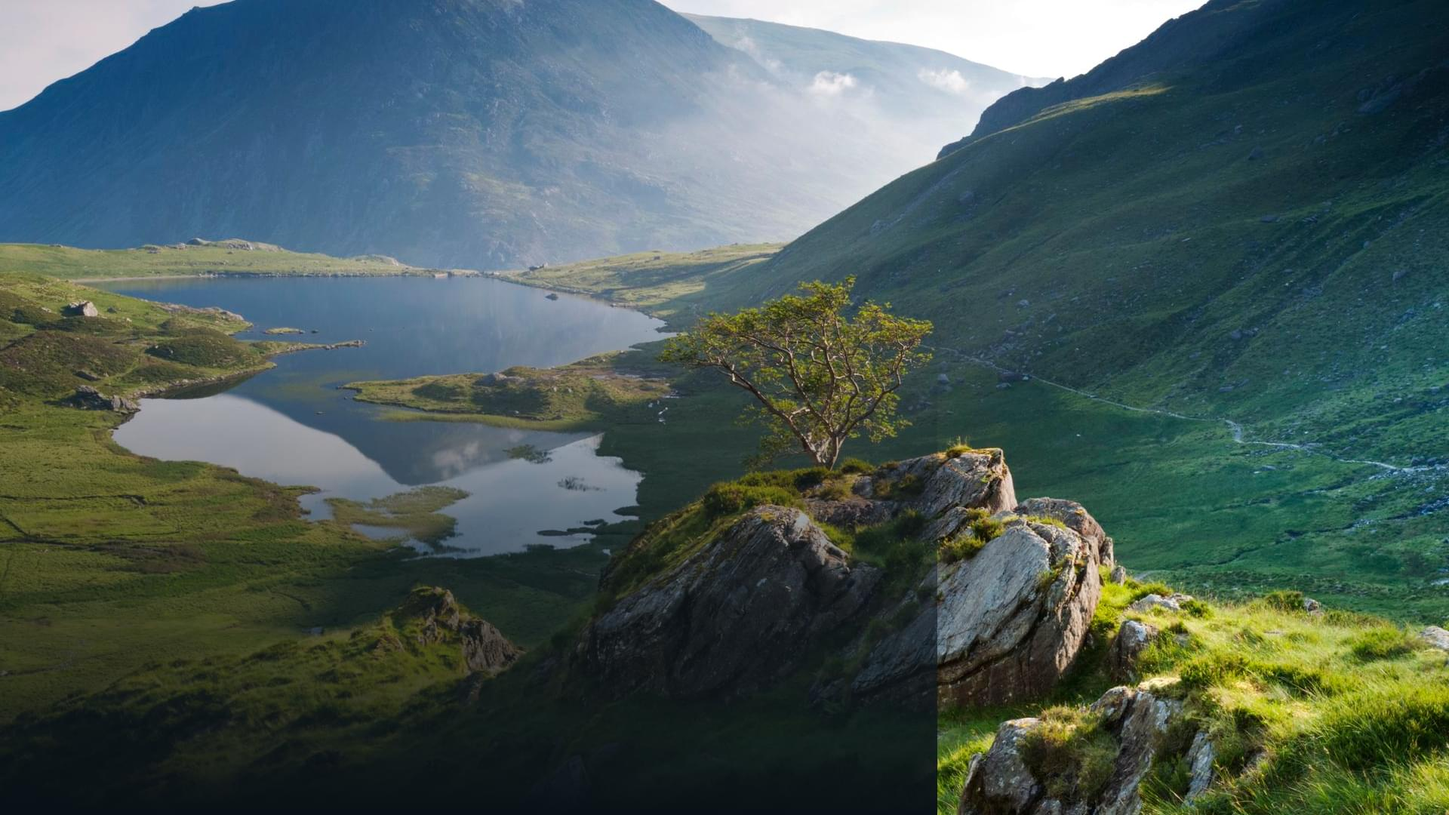
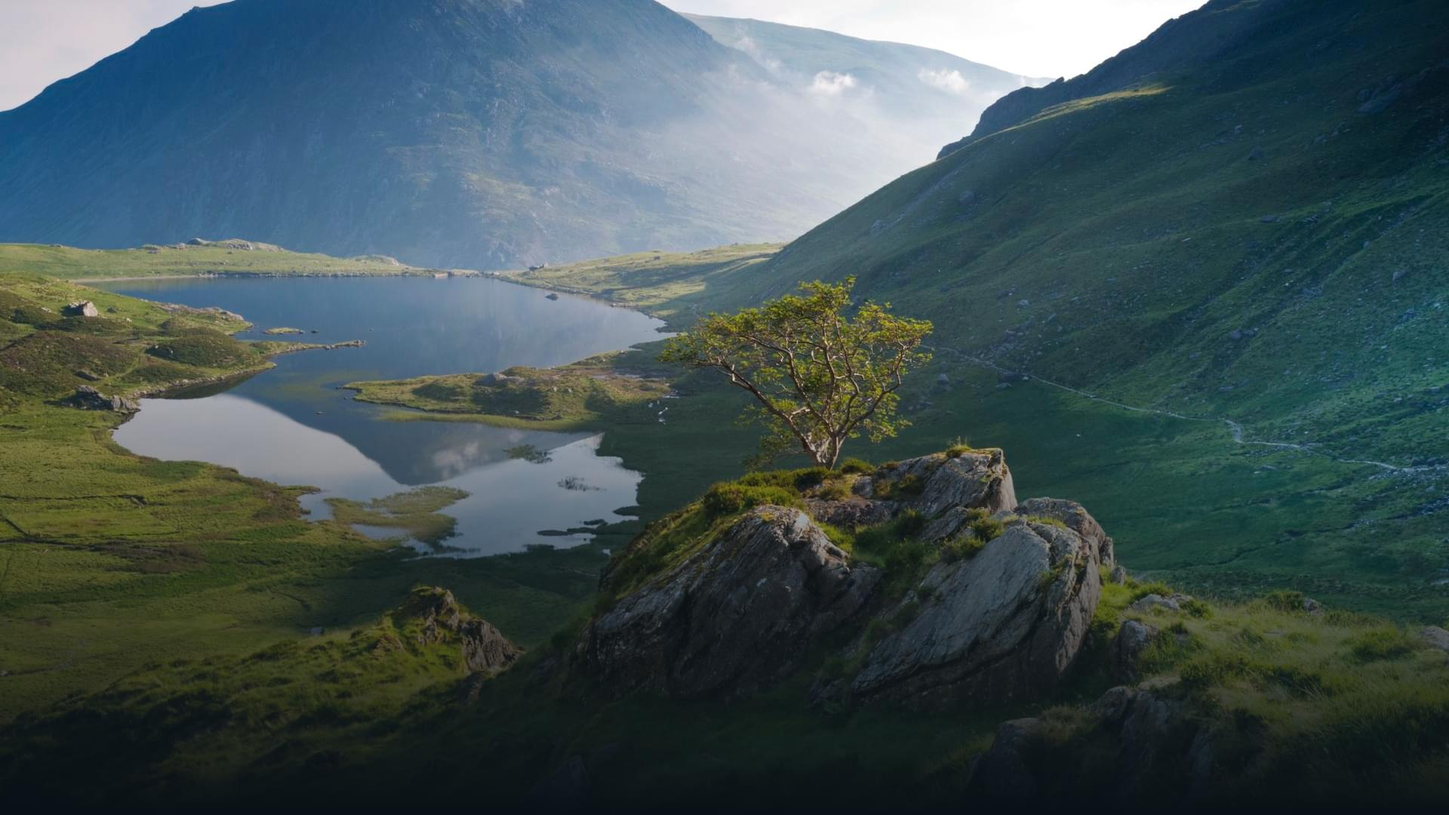
Адаптив второй секции + мелкие правки
Доработал адаптив для второй секции + заменил изображение на бэке / добавил text-shadow для всех заголовков и кнопок  /

Changed region(s): [[0.625, 0.5194, 1.0, 1.0]]

diff --git a/app/css/app.min.css b/app/css/app.min.css
@@ -1,1 +1,1 @@
-@charset "UTF-8";*,::after,::before{padding:0;margin:0;border:0;outline:0;-webkit-user-select:none;-moz-user-select:none;-ms-user-select:none;user-select:none;-webkit-box-sizing:border-box;box-sizing:border-box}body,html{width:100%;height:100%;position:relative}body.lock{overflow:hidden}@media screen and (min-width:770px){body.lock{overflow:auto}}a{text-decoration:none}img{display:block;width:100%;height:100%;-o-object-fit:cover;object-fit:cover;-o-object-position:center;object-position:center}*{scrollbar-width:thin;scrollbar-color:#abc #222}::-webkit-scrollbar{height:10px;width:4px}::-webkit-scrollbar-track{background-color:#222}::-webkit-scrollbar-thumb{background-color:#abc;border-radius:0;border:4px solid #abc}@font-face{font-family:HelveticaNeue;font-style:normal;font-weight:700;src:local("HelveticaNeue"),url(../fonts/HelveticaNeue/HelveticaNeue-Bold.woff2) format("woff2");font-display:swap}@font-face{font-family:SFCompactText;font-style:normal;font-weight:200;src:local("SFCompactText"),url(../fonts/SFCompactText/SFCompactText-Light.woff2) format("woff2");font-display:swap}@font-face{font-family:SFCompactText;font-style:normal;font-weight:400;src:local("SFCompactText"),url(../fonts/SFCompactText/SFCompactText-Regular.woff2) format("woff2");font-display:swap}@font-face{font-family:SFProDisplay;font-style:normal;font-weight:400;src:local("SFProDisplay"),url(../fonts/SFProDisplay/SFProDisplay-Regular.woff2) format("woff2");font-display:swap}@font-face{font-family:SFProDisplay;font-style:normal;font-weight:500;src:local("SFProDisplay"),url(../fonts/SFProDisplay/SFProDisplay-Medium.woff2) format("woff2");font-display:swap}@font-face{font-family:SFProDisplay;font-style:normal;font-weight:600;src:local("SFProDisplay"),url(../fonts/SFProDisplay/SFProDisplay-Semibold.woff2) format("woff2");font-display:swap}@font-face{font-family:SFProDisplay;font-style:normal;font-weight:700;src:local("SFProDisplay"),url(../fonts/SFProDisplay/SFProDisplay-Bold.woff2) format("woff2");font-display:swap}@font-face{font-family:SFProDisplay;font-style:normal;font-weight:900;src:local("SFProDisplay"),url(../fonts/SFProDisplay/SFProDisplay-Heavy.woff2) format("woff2");font-display:swap}@font-face{font-family:SFProText;font-style:normal;font-weight:400;src:local("SFProText"),url(../fonts/SFProText/SFProText-Regular.woff2) format("woff2");font-display:swap}.burger{position:relative;width:32px;height:20px;z-index:3;cursor:pointer}@media screen and (max-width:767px){.burger{display:-webkit-box;display:-ms-flexbox;display:flex;-ms-flex-item-align:center;-ms-grid-row-align:center;align-self:center}}.burger__element{width:100%;height:2px;position:absolute;top:9px;left:0;background-color:#fff}.burger:after,.burger:before{width:100%;height:2px;position:absolute;left:0;background-color:#fff;-webkit-transition:.3s;transition:.3s;content:""}.burger:before{top:0}.burger:after{bottom:0}.burger.active:before{-webkit-transform:rotate(45deg);-ms-transform:rotate(45deg);transform:rotate(45deg);top:10px}.burger.active:after{-webkit-transform:rotate(-45deg);-ms-transform:rotate(-45deg);transform:rotate(-45deg);bottom:8px}.burger.active span{display:none}.header{position:relative;min-height:100vh}@media screen and (max-width:800px){.header{margin-bottom:440px}}@media screen and (min-width:800px) and (max-width:1030px){.header{margin-bottom:620px}}@media screen and (max-width:420px){.header{margin-bottom:350px}}.header__title{max-width:634px;margin-bottom:40px;font-family:SFProDisplay;font-weight:700;font-size:80px;line-height:84px;color:#fff}@media screen and (max-width:576px){.header__title{font-size:60px;line-height:64px}}.header__text{max-width:500px;margin-bottom:60px;font-family:SFCompactText;font-weight:100;font-size:14px;color:#fff}@media screen and (max-width:1050px){.header__text{max-width:480px}}.header-content{position:relative;padding-top:220px}@media screen and (max-width:576px){.header-content{padding-top:120px}}.header .button-new-book{display:inline-block;padding:18px 30px;margin-bottom:40px;border-radius:24px;background:rgba(0,0,0,.3);font-family:SFProDisplay;font-weight:900;font-size:11px;text-align:center;color:#fff}.header .button-buy{display:inline-block;margin-bottom:160px;padding:32px 80px;border-radius:8px;font-family:SFProDisplay;font-weight:900;font-size:12px;letter-spacing:2px;color:#fff;background-color:#e8594e}@media screen and (max-width:1200px){.header .button-buy{margin-bottom:120px}}@media screen and (min-width:1030px) and (max-width:1200px){.header .button-buy{margin-bottom:200px}}.header .search{width:100%;max-width:1070px;height:120px;padding:50px 10px 50px 50px;display:-webkit-box;display:-ms-flexbox;display:flex;-webkit-box-pack:justify;-ms-flex-pack:justify;justify-content:space-between;background-color:#fff;border-radius:4px 0 0 0;border-bottom:1px solid #eee}@media screen and (min-width:1031px) and (max-width:1600px){.header .search{width:50%}}@media screen and (max-width:1600px){.header .search{height:80px;padding:30px 10px 30px 50px;border-radius:4px 4px 0 0}}@media screen and (max-width:576px){.header .search{height:60px;padding:20px 10px 20px 50px;border-radius:4px 4px 0 0}}.header .search__input{width:90%;font-family:SFProDisplay;font-weight:500;font-size:16px;color:#1c2e3d}.header .search__submit{width:10%;height:20px;padding:40px;margin-top:-30px;cursor:pointer;background-image:url(../images/dest/icons/search.svg);background-repeat:no-repeat;background-position:60% center}.header .header-video{width:500px;height:400px;position:absolute;right:0;bottom:0}@media screen and (max-width:800px){.header .header-video{width:100%;left:0;right:auto;bottom:-420px}}@media screen and (min-width:800px) and (max-width:1030px){.header .header-video{width:720px;height:500px;left:calc(50% - 360px);right:auto;bottom:-550px}}@media screen and (max-width:420px){.header .header-video{height:300px;bottom:-320px}}.header .header-video__top{position:relative;height:280px;cursor:pointer;background:#000}@media screen and (min-width:800px) and (max-width:1030px){.header .header-video__top{height:380px}}@media screen and (max-width:420px){.header .header-video__top{height:230px}}@media screen and (min-width:1031px){.header .header-video__top{background:0 0}}.header .header-video__image{width:100%;height:100%;-o-object-fit:cover;object-fit:cover;-o-object-position:center;object-position:center}.header .header-video__video{width:100%;height:100%}.header .header-video__play-pause{width:34px;height:44px;background:url(../images/dest/icons/play.svg);background-repeat:no-repeat;background-position:center;background-size:contain;position:absolute;top:calc(50% - 21px);left:calc(50% - 16px)}.header .header-video__play-pause.pause{background:0 0}.header .header-video__play-pause.pause:hover{background:url(../images/dest/icons/pause.svg);background-repeat:no-repeat;background-position:center;background-size:contain}@media screen and (max-width:768px){.header .header-video__play-pause.pause:hover{background:0 0}}.header .header-video__bottom{height:120px;padding:0 50px;display:-webkit-box;display:-ms-flexbox;display:flex;-webkit-box-pack:justify;-ms-flex-pack:justify;justify-content:space-between;-webkit-box-align:center;-ms-flex-align:center;align-items:center;background-color:#73afba}@media screen and (max-width:450px){.header .header-video__bottom{padding:0 30px}}@media screen and (max-width:420px){.header .header-video__bottom{height:70px}}@media screen and (max-width:375px){.header .header-video__bottom{padding:0 20px}}.header .header-video__left-arrow,.header .header-video__right-arrow{width:24px;height:24px;padding:4px;cursor:pointer;background-repeat:no-repeat;background-size:contain;background-position:center}.header .header-video__left-arrow{background-image:url(../images/dest/icons/arrow-left.svg)}.header .header-video__right-arrow{background-image:url(../images/dest/icons/arrow-right.svg)}.header .header-video__title{font-family:SFProDisplay;font-weight:900;font-size:12px;letter-spacing:2px;color:#fff;text-transform:uppercase}.header-menu{width:100%;height:100px;position:fixed;left:0;top:-110vh;background-color:#1e1e1e;-webkit-transition:.3s;transition:.3s;z-index:4}@media screen and (max-width:769px){.header-menu{height:110vh}}@media screen and (max-width:769px){.header-menu.active{-webkit-animation:.2s headerMenuTop100 forwards;animation:.2s headerMenuTop100 forwards}}@media screen and (min-width:770px){.header-menu.active{-webkit-animation:.2s headerMenuTop130 forwards;animation:.2s headerMenuTop130 forwards}}body.top-line-fixed .header-menu.active{-webkit-animation:.2s headerMenuTop100 forwards;animation:.2s headerMenuTop100 forwards}@-webkit-keyframes headerMenuTop100{0%{top:-110vh}100%{top:100px}}@keyframes headerMenuTop100{0%{top:-110vh}100%{top:100px}}@-webkit-keyframes headerMenuTop130{0%{top:-110vh}100%{top:130px}}@keyframes headerMenuTop130{0%{top:-110vh}100%{top:130px}}.header-menu-inner{width:100%;max-width:900px;height:100%;margin:0 auto;display:-webkit-box;display:-ms-flexbox;display:flex;-webkit-box-align:center;-ms-flex-align:center;align-items:center;-webkit-box-pack:center;-ms-flex-pack:center;justify-content:center}@media screen and (max-width:769px){.header-menu-inner{-webkit-box-orient:vertical;-webkit-box-direction:normal;-ms-flex-direction:column;flex-direction:column;height:75%}}.header-menu__link{padding:20px 30px;font-size:17px;color:#fff;text-decoration:none;font-family:SFProText;font-weight:400;-webkit-transition:.3s color;transition:.3s color;width:17%;text-align:center}.header-menu__link:hover{color:#73afba}.header-menu__link.active{color:#45c9e1}@media screen and (max-width:769px){.header-menu__link{color:#fff;font-size:20px;width:100%;text-align:center;border-bottom:1px solid #333;padding:30px}}@media screen and (min-width:770px) and (max-width:990px){.header-menu__link{padding:20px 15px}}@media screen and (max-width:769px){.header-menu__link:last-child{border-bottom:none}}.top-line{position:relative;padding:50px 0;height:130px;z-index:5}@media screen and (max-width:769px){.top-line{height:100px;padding:35px 0}}.top-line.fixed{position:fixed;width:100%;height:100px;padding:35px 0;background:#1a1a1a;-webkit-animation:.5s topLineFixed;animation:.5s topLineFixed}@-webkit-keyframes topLineFixed{0%{top:-50vh}100%{top:0}}@keyframes topLineFixed{0%{top:-50vh}100%{top:0}}.top-line:after{content:"";display:block;width:100%;height:100%;position:absolute;top:-200px;left:0;background:#1a1a1a;z-index:0;-webkit-transition:.2s;transition:.2s}body.lock .top-line:after{top:0}.top-line .container{display:-webkit-box;display:-ms-flexbox;display:flex;-webkit-box-pack:justify;-ms-flex-pack:justify;justify-content:space-between}.top-line .socials{position:relative;width:70px;display:-webkit-box;display:-ms-flexbox;display:flex;-webkit-box-pack:justify;-ms-flex-pack:justify;justify-content:space-between;-webkit-box-align:center;-ms-flex-align:center;align-items:center;z-index:3}@media screen and (max-width:376px){.top-line .socials{width:60px}}.top-line .socials__item.fb{width:15px;height:25px;background:url(../images/dest/social/fb.svg) center no-repeat;background-size:contain}.top-line .socials__item.twt{width:25px;height:25px;background:url(../images/dest/social/twt.svg) no-repeat;background-size:contain;background-position:0 3px}.top-line .logo{display:block;position:absolute;width:110px;height:26px;text-align:center;top:calc(50% - 15px);left:calc(50% - 55px);color:#fff;font-family:SFProDisplay;font-weight:900;font-size:22px;line-height:26px;text-transform:uppercase;z-index:5}.container{max-width:1600px;margin:0 auto;padding:0 20px}.s1{padding:150px 0}body.top-line-fixed .s1{margin-top:120px}@media screen and (max-width:1600px){.s1{padding:100px 0}}@media screen and (max-width:768px){.s1{padding:70px 0}}.s1__title{font-family:SFProDisplay;font-weight:700;font-size:64px;line-height:80px;color:#1c2e3d;max-width:770px;margin-bottom:100px}@media screen and (max-width:1030px){.s1__title{font-size:58px;line-height:64px;margin-bottom:70px;max-width:550px}}@media screen and (max-width:768px){.s1__title{font-size:53px;line-height:60px;margin-bottom:50px;max-width:540px}}.s1__list{display:-webkit-box;display:-ms-flexbox;display:flex;-ms-flex-wrap:wrap;flex-wrap:wrap;-webkit-box-pack:start;-ms-flex-pack:start;justify-content:flex-start;gap:30px}@media screen and (max-width:576px){.s1__list{-webkit-box-orient:vertical;-webkit-box-direction:normal;-ms-flex-direction:column;flex-direction:column;height:auto}}.s1__item{position:relative;z-index:1;overflow:hidden;border-radius:5px}@media screen and (max-width:1201px){.s1__item{width:22%;max-height:320px}}@media screen and (max-width:992px){.s1__item{width:calc(50% - 15px);max-height:520px}}@media screen and (max-width:576px){.s1__item{width:100%;max-height:100%}}@media screen and (min-width:1202px) and (max-width:1600px){.s1__item{width:22%;max-height:420px}}.s1__item-title{position:absolute;width:80%;height:70px;left:10%;bottom:60px;z-index:3;opacity:0;font-family:SFProDisplay;font-weight:700;font-size:24px;line-height:31px;letter-spacing:1px;text-shadow:1px 1px #2a707c;color:#fff}@media screen and (min-width:992px) and (max-width:1201px){.s1__item-title{font-size:20px;bottom:40px}}.s1__item:after{content:"";display:block;width:100%;height:100%;position:absolute;top:0;left:0;z-index:2;opacity:0;-webkit-transition:.7s;transition:.7s;background:rgba(115,175,186,.7)}.s1__item:hover .s1__item-title{opacity:1}.s1__item:hover:after{opacity:1}.s2{position:relative;min-height:100vh;background-image:url(../images/dest/section_2/1.jpg);background-repeat:no-repeat}.s2 .container{padding-top:600px;padding-bottom:100px}.s2__button_top{display:inline-block;padding:18px 30px;margin-bottom:20px;border-radius:35px;background:#e8594e;font-family:SFProDisplay;font-weight:900;font-size:11px;letter-spacing:2px;color:#fff;text-transform:uppercase}.s2__title{max-width:640px;margin-bottom:20px;font-family:SFProDisplay;font-weight:700;font-size:48px;line-height:64px;color:#fff}.s2__text{max-width:640px;margin-bottom:40px;font-family:SFCompactText;font-weight:400;font-size:14px;line-height:21px;color:#fff}.s2__button_bot{display:inline-block;padding:32px 80px;border-radius:5px;background:#73afba;font-family:SFProDisplay;font-weight:900;font-size:12px;letter-spacing:2px;color:#fff;text-transform:uppercase}.s2__sidebar{position:absolute;top:0;right:0;height:100%;max-width:690px;padding:130px;background:rgba(60,74,81,.95)}@media screen and (max-width:680px){.s2__sidebar{position:relative}}.s2__sidebar-title{max-width:370px;margin-bottom:100px;font-family:SFProDisplay;font-weight:700;font-size:64px;line-height:80px;color:#fff}.s2 .stories{margin-bottom:100px}.s2 .stories__list{max-width:370px;display:-webkit-box;display:-ms-flexbox;display:flex;-webkit-box-orient:vertical;-webkit-box-direction:normal;-ms-flex-direction:column;flex-direction:column}.s2 .stories__element{display:-webkit-box;display:-ms-flexbox;display:flex;-ms-flex-wrap:wrap;flex-wrap:wrap;gap:30px;padding-top:30px;padding-bottom:30px;border-bottom:1px solid rgba(99,99,99,.7)}.s2 .stories__element:first-child{padding-top:0}.s2 .stories__element:last-child{border:none}.s2 .stories__avatar{width:46px;height:46px;overflow:hidden;display:-webkit-box;display:-ms-flexbox;display:flex;-webkit-box-pack:center;-ms-flex-pack:center;justify-content:center;-webkit-box-align:center;-ms-flex-align:center;align-items:center;border-radius:100%}.s2 .stories__avatar-image{width:48px;height:48px}.s2 .stories__title{max-width:calc(100% - 80px);margin-bottom:10px;font-weight:700;font-size:18px;line-height:24px;color:#fff;font-family:SFProDisplay}.s2 .stories__date{display:block;font-weight:400;font-size:11px;color:#aaa;font-family:SFProText}
+@charset "UTF-8";*,::after,::before{padding:0;margin:0;border:0;outline:0;-webkit-user-select:none;-moz-user-select:none;-ms-user-select:none;user-select:none;-webkit-box-sizing:border-box;box-sizing:border-box}body,html{width:100%;height:100%;position:relative}body.lock{overflow:hidden}@media screen and (min-width:770px){body.lock{overflow:auto}}a{text-decoration:none}img{display:block;width:100%;height:100%;-o-object-fit:cover;object-fit:cover;-o-object-position:center;object-position:center}*{scrollbar-width:thin;scrollbar-color:#abc #222}::-webkit-scrollbar{height:10px;width:4px}::-webkit-scrollbar-track{background-color:#222}::-webkit-scrollbar-thumb{background-color:#abc;border-radius:0;border:4px solid #abc}@font-face{font-family:HelveticaNeue;font-style:normal;font-weight:700;src:local("HelveticaNeue"),url(../fonts/HelveticaNeue/HelveticaNeue-Bold.woff2) format("woff2");font-display:swap}@font-face{font-family:SFCompactText;font-style:normal;font-weight:200;src:local("SFCompactText"),url(../fonts/SFCompactText/SFCompactText-Light.woff2) format("woff2");font-display:swap}@font-face{font-family:SFCompactText;font-style:normal;font-weight:400;src:local("SFCompactText"),url(../fonts/SFCompactText/SFCompactText-Regular.woff2) format("woff2");font-display:swap}@font-face{font-family:SFProDisplay;font-style:normal;font-weight:400;src:local("SFProDisplay"),url(../fonts/SFProDisplay/SFProDisplay-Regular.woff2) format("woff2");font-display:swap}@font-face{font-family:SFProDisplay;font-style:normal;font-weight:500;src:local("SFProDisplay"),url(../fonts/SFProDisplay/SFProDisplay-Medium.woff2) format("woff2");font-display:swap}@font-face{font-family:SFProDisplay;font-style:normal;font-weight:600;src:local("SFProDisplay"),url(../fonts/SFProDisplay/SFProDisplay-Semibold.woff2) format("woff2");font-display:swap}@font-face{font-family:SFProDisplay;font-style:normal;font-weight:700;src:local("SFProDisplay"),url(../fonts/SFProDisplay/SFProDisplay-Bold.woff2) format("woff2");font-display:swap}@font-face{font-family:SFProDisplay;font-style:normal;font-weight:900;src:local("SFProDisplay"),url(../fonts/SFProDisplay/SFProDisplay-Heavy.woff2) format("woff2");font-display:swap}@font-face{font-family:SFProText;font-style:normal;font-weight:400;src:local("SFProText"),url(../fonts/SFProText/SFProText-Regular.woff2) format("woff2");font-display:swap}.burger{position:relative;width:32px;height:20px;z-index:3;cursor:pointer}@media screen and (max-width:767px){.burger{display:-webkit-box;display:-ms-flexbox;display:flex;-ms-flex-item-align:center;-ms-grid-row-align:center;align-self:center}}.burger__element{width:100%;height:2px;position:absolute;top:9px;left:0;background-color:#fff}.burger:after,.burger:before{width:100%;height:2px;position:absolute;left:0;background-color:#fff;-webkit-transition:.3s;transition:.3s;content:""}.burger:before{top:0}.burger:after{bottom:0}.burger.active:before{-webkit-transform:rotate(45deg);-ms-transform:rotate(45deg);transform:rotate(45deg);top:10px}.burger.active:after{-webkit-transform:rotate(-45deg);-ms-transform:rotate(-45deg);transform:rotate(-45deg);bottom:8px}.burger.active span{display:none}.header{position:relative;min-height:100vh}@media screen and (max-width:800px){.header{margin-bottom:440px}}@media screen and (min-width:800px) and (max-width:1030px){.header{margin-bottom:620px}}@media screen and (max-width:420px){.header{margin-bottom:350px}}.header__title{max-width:634px;margin-bottom:40px;font-family:SFProDisplay;font-weight:700;font-size:80px;line-height:84px;color:#fff;text-shadow:2px 2px #333}@media screen and (max-width:576px){.header__title{font-size:60px;line-height:64px}}.header__text{max-width:500px;margin-bottom:60px;font-family:SFCompactText;font-weight:100;font-size:14px;color:#fff;text-shadow:1px 1px #111}@media screen and (max-width:1050px){.header__text{max-width:480px}}.header-content{position:relative;padding-top:220px}@media screen and (max-width:576px){.header-content{padding-top:120px}}.header .button-new-book{display:inline-block;padding:18px 30px;margin-bottom:40px;border-radius:24px;background:rgba(0,0,0,.3);font-family:SFProDisplay;font-weight:900;font-size:11px;text-align:center;color:#fff;text-shadow:1px 1px #111}.header .button-buy{display:inline-block;margin-bottom:160px;padding:32px 80px;border-radius:8px;font-family:SFProDisplay;font-weight:900;font-size:12px;letter-spacing:2px;color:#fff;background-color:#e8594e;text-shadow:1px 1px #111}@media screen and (max-width:1200px){.header .button-buy{margin-bottom:120px}}@media screen and (min-width:1030px) and (max-width:1200px){.header .button-buy{margin-bottom:200px}}.header .search{width:100%;max-width:1070px;height:120px;padding:50px 10px 50px 50px;display:-webkit-box;display:-ms-flexbox;display:flex;-webkit-box-pack:justify;-ms-flex-pack:justify;justify-content:space-between;background-color:#fff;border-radius:4px 0 0 0;border-bottom:1px solid #eee}@media screen and (min-width:1031px) and (max-width:1600px){.header .search{width:50%}}@media screen and (max-width:1600px){.header .search{height:80px;padding:30px 10px 30px 50px;border-radius:4px 4px 0 0}}@media screen and (max-width:576px){.header .search{height:60px;padding:20px 10px 20px 50px;border-radius:4px 4px 0 0}}.header .search__input{width:90%;font-family:SFProDisplay;font-weight:500;font-size:16px;color:#1c2e3d}.header .search__submit{width:10%;height:20px;padding:40px;margin-top:-30px;cursor:pointer;background-image:url(../images/dest/icons/search.svg);background-repeat:no-repeat;background-position:60% center}.header .header-video{width:500px;height:400px;position:absolute;right:0;bottom:0}@media screen and (max-width:800px){.header .header-video{width:100%;left:0;right:auto;bottom:-420px}}@media screen and (min-width:800px) and (max-width:1030px){.header .header-video{width:720px;height:500px;left:calc(50% - 360px);right:auto;bottom:-550px}}@media screen and (max-width:420px){.header .header-video{height:300px;bottom:-320px}}.header .header-video__top{position:relative;height:280px;cursor:pointer;background:#000}@media screen and (min-width:800px) and (max-width:1030px){.header .header-video__top{height:380px}}@media screen and (max-width:420px){.header .header-video__top{height:230px}}@media screen and (min-width:1031px){.header .header-video__top{background:0 0}}.header .header-video__image{width:100%;height:100%;-o-object-fit:cover;object-fit:cover;-o-object-position:center;object-position:center}.header .header-video__video{width:100%;height:100%}.header .header-video__play-pause{width:34px;height:44px;background:url(../images/dest/icons/play.svg);background-repeat:no-repeat;background-position:center;background-size:contain;position:absolute;top:calc(50% - 21px);left:calc(50% - 16px)}.header .header-video__play-pause.pause{background:0 0}.header .header-video__play-pause.pause:hover{background:url(../images/dest/icons/pause.svg);background-repeat:no-repeat;background-position:center;background-size:contain}@media screen and (max-width:768px){.header .header-video__play-pause.pause:hover{background:0 0}}.header .header-video__bottom{height:120px;padding:0 50px;display:-webkit-box;display:-ms-flexbox;display:flex;-webkit-box-pack:justify;-ms-flex-pack:justify;justify-content:space-between;-webkit-box-align:center;-ms-flex-align:center;align-items:center;background-color:#73afba}@media screen and (max-width:450px){.header .header-video__bottom{padding:0 30px}}@media screen and (max-width:420px){.header .header-video__bottom{height:70px}}@media screen and (max-width:375px){.header .header-video__bottom{padding:0 20px}}.header .header-video__left-arrow,.header .header-video__right-arrow{width:24px;height:24px;padding:4px;cursor:pointer;background-repeat:no-repeat;background-size:contain;background-position:center}.header .header-video__left-arrow{background-image:url(../images/dest/icons/arrow-left.svg)}.header .header-video__right-arrow{background-image:url(../images/dest/icons/arrow-right.svg)}.header .header-video__title{font-family:SFProDisplay;font-weight:900;font-size:12px;letter-spacing:2px;color:#fff;text-transform:uppercase;text-shadow:1px 1px #333}.header-menu{width:100%;height:100px;position:fixed;left:0;top:-110vh;background-color:#1e1e1e;-webkit-transition:.3s;transition:.3s;z-index:4}@media screen and (max-width:769px){.header-menu{height:110vh}}@media screen and (max-width:769px){.header-menu.active{-webkit-animation:.2s headerMenuTop100 forwards;animation:.2s headerMenuTop100 forwards}}@media screen and (min-width:770px){.header-menu.active{-webkit-animation:.2s headerMenuTop130 forwards;animation:.2s headerMenuTop130 forwards}}body.top-line-fixed .header-menu.active{-webkit-animation:.2s headerMenuTop100 forwards;animation:.2s headerMenuTop100 forwards}@-webkit-keyframes headerMenuTop100{0%{top:-110vh}100%{top:100px}}@keyframes headerMenuTop100{0%{top:-110vh}100%{top:100px}}@-webkit-keyframes headerMenuTop130{0%{top:-110vh}100%{top:130px}}@keyframes headerMenuTop130{0%{top:-110vh}100%{top:130px}}.header-menu-inner{width:100%;max-width:900px;height:100%;margin:0 auto;display:-webkit-box;display:-ms-flexbox;display:flex;-webkit-box-align:center;-ms-flex-align:center;align-items:center;-webkit-box-pack:center;-ms-flex-pack:center;justify-content:center}@media screen and (max-width:769px){.header-menu-inner{-webkit-box-orient:vertical;-webkit-box-direction:normal;-ms-flex-direction:column;flex-direction:column;height:75%}}.header-menu__link{padding:20px 30px;font-size:17px;color:#fff;text-decoration:none;font-family:SFProText;font-weight:400;-webkit-transition:.3s color;transition:.3s color;width:17%;text-align:center}.header-menu__link:hover{color:#73afba}.header-menu__link.active{color:#45c9e1}@media screen and (max-width:769px){.header-menu__link{color:#fff;font-size:20px;width:100%;text-align:center;border-bottom:1px solid #333;padding:30px}}@media screen and (min-width:770px) and (max-width:990px){.header-menu__link{padding:20px 15px}}@media screen and (max-width:769px){.header-menu__link:last-child{border-bottom:none}}.top-line{position:relative;padding:50px 0;height:130px;z-index:5}@media screen and (max-width:769px){.top-line{height:100px;padding:35px 0}}.top-line.fixed{position:fixed;width:100%;height:100px;padding:35px 0;background:#1a1a1a;-webkit-animation:.5s topLineFixed;animation:.5s topLineFixed}@-webkit-keyframes topLineFixed{0%{top:-50vh}100%{top:0}}@keyframes topLineFixed{0%{top:-50vh}100%{top:0}}.top-line:after{content:"";display:block;width:100%;height:100%;position:absolute;top:-200px;left:0;background:#1a1a1a;z-index:0;-webkit-transition:.2s;transition:.2s}body.lock .top-line:after{top:0}.top-line .container{display:-webkit-box;display:-ms-flexbox;display:flex;-webkit-box-pack:justify;-ms-flex-pack:justify;justify-content:space-between}.top-line .socials{position:relative;width:70px;display:-webkit-box;display:-ms-flexbox;display:flex;-webkit-box-pack:justify;-ms-flex-pack:justify;justify-content:space-between;-webkit-box-align:center;-ms-flex-align:center;align-items:center;z-index:3}@media screen and (max-width:376px){.top-line .socials{width:60px}}.top-line .socials__item.fb{width:15px;height:25px;background:url(../images/dest/social/fb.svg) center no-repeat;background-size:contain}.top-line .socials__item.twt{width:25px;height:25px;background:url(../images/dest/social/twt.svg) no-repeat;background-size:contain;background-position:0 3px}.top-line .logo{display:block;position:absolute;width:110px;height:26px;text-align:center;top:calc(50% - 15px);left:calc(50% - 55px);color:#fff;font-family:SFProDisplay;font-weight:900;font-size:22px;line-height:26px;text-transform:uppercase;z-index:5;text-shadow:1px 1px #111}.container{max-width:1600px;margin:0 auto;padding:0 20px}.s1{padding:150px 0}body.top-line-fixed .s1{margin-top:120px}@media screen and (max-width:1600px){.s1{padding:100px 0}}@media screen and (max-width:768px){.s1{padding:70px 0}}.s1__title{font-family:SFProDisplay;font-weight:700;font-size:64px;line-height:80px;color:#1c2e3d;max-width:770px;margin-bottom:100px;text-shadow:1px 1px #aaa}@media screen and (max-width:1030px){.s1__title{font-size:58px;line-height:64px;margin-bottom:70px;max-width:550px}}@media screen and (max-width:768px){.s1__title{font-size:53px;line-height:60px;margin-bottom:50px;max-width:540px}}.s1__list{display:-webkit-box;display:-ms-flexbox;display:flex;-ms-flex-wrap:wrap;flex-wrap:wrap;-webkit-box-pack:start;-ms-flex-pack:start;justify-content:flex-start;gap:30px}@media screen and (max-width:576px){.s1__list{-webkit-box-orient:vertical;-webkit-box-direction:normal;-ms-flex-direction:column;flex-direction:column;height:auto}}.s1__item{position:relative;z-index:1;overflow:hidden;border-radius:5px}@media screen and (max-width:1201px){.s1__item{width:22%;max-height:320px}}@media screen and (max-width:992px){.s1__item{width:calc(50% - 15px);max-height:520px}}@media screen and (max-width:576px){.s1__item{width:100%;max-height:100%}}@media screen and (min-width:1202px) and (max-width:1600px){.s1__item{width:22%;max-height:420px}}.s1__item-title{position:absolute;width:80%;height:70px;left:10%;bottom:60px;z-index:3;opacity:0;font-family:SFProDisplay;font-weight:700;font-size:24px;line-height:31px;letter-spacing:1px;text-shadow:1px 1px #333;color:#fff}@media screen and (min-width:992px) and (max-width:1201px){.s1__item-title{font-size:20px;bottom:40px}}.s1__item:after{content:"";display:block;width:100%;height:100%;position:absolute;top:0;left:0;z-index:2;opacity:0;-webkit-transition:.7s;transition:.7s;background:rgba(115,175,186,.7)}.s1__item:hover .s1__item-title{opacity:1}.s1__item:hover:after{opacity:1}.s2{position:relative;min-height:100vh;background-image:url(../images/dest/section_2/1.jpg);background-repeat:no-repeat}.s2 .container{padding-top:600px;padding-bottom:100px}@media screen and (max-width:999px){.s2 .container{padding-top:340px}}.s2__button_top{display:inline-block;padding:18px 30px;margin-bottom:20px;border-radius:35px;background:#e8594e;font-family:SFProDisplay;font-weight:900;font-size:11px;letter-spacing:2px;color:#fff;text-transform:uppercase;text-shadow:1px 1px #333}.s2__title{max-width:640px;margin-bottom:20px;font-family:SFProDisplay;font-weight:700;font-size:48px;line-height:64px;color:#fff;text-shadow:2px 2px #333}@media screen and (max-width:1248px){.s2__title{max-width:460px}}@media screen and (max-width:600px){.s2__title{max-width:435px}}.s2__text{max-width:640px;margin-bottom:40px;font-family:SFCompactText;font-weight:400;font-size:14px;line-height:21px;color:#fff;text-shadow:1px 1px #111}@media screen and (max-width:1248px){.s2__text{max-width:550px}}@media screen and (max-width:600px){.s2__text{max-width:435px}}.s2__button_bot{display:inline-block;padding:32px 80px;border-radius:5px;background:#73afba;font-family:SFProDisplay;font-weight:900;font-size:12px;letter-spacing:2px;color:#fff;text-transform:uppercase;text-shadow:1px 1px #333}.s2__sidebar{position:absolute;top:0;right:0;height:100%;max-width:690px;padding:130px 170px 130px 130px;background:rgba(60,74,81,.95)}@media screen and (max-width:999px){.s2__sidebar{top:80px;position:relative;max-width:100%;padding:50px 170px 20px 130px}}@media screen and (max-width:800px){.s2__sidebar{padding:50px 50px 20px 50px}}@media screen and (max-width:600px){.s2__sidebar{padding:10px 50px 20px 50px}}@media screen and (max-width:396px){.s2__sidebar{top:55px}}@media screen and (max-width:346px){.s2__sidebar{top:90px;padding:10px 20px 20px 30px}}@media screen and (min-width:1250px) and (max-width:1400px){.s2__sidebar{padding:130px 100px 100px 100px}}@media screen and (min-width:1000px) and (max-width:1249px){.s2__sidebar{padding:100px 70px 100px 80px}}.s2__sidebar-title{max-width:370px;margin-bottom:100px;font-family:SFProDisplay;font-weight:700;font-size:64px;line-height:80px;color:#fff;text-shadow:2px 2px #333}@media screen and (max-width:999px){.s2__sidebar-title{max-width:100%;margin-bottom:80px}}@media screen and (max-width:600px){.s2__sidebar-title{font-size:54px}}@media screen and (max-width:520px){.s2__sidebar-title{font-size:40px}}@media screen and (max-width:420px){.s2__sidebar-title{font-size:32px}}@media screen and (max-width:375px){.s2__sidebar-title{font-size:29px}}@media screen and (max-width:346px){.s2__sidebar-title{margin-bottom:70px}}@media screen and (min-width:1000px) and (max-width:1249px){.s2__sidebar-title{max-width:270px}}.s2 .stories{margin-bottom:100px}.s2 .stories__list{max-width:370px;display:-webkit-box;display:-ms-flexbox;display:flex;-webkit-box-orient:vertical;-webkit-box-direction:normal;-ms-flex-direction:column;flex-direction:column}@media screen and (max-width:999px){.s2 .stories__list{max-width:100%}}@media screen and (min-width:1000px) and (max-width:1249px){.s2 .stories__list{max-width:270px}}.s2 .stories__element{display:-webkit-box;display:-ms-flexbox;display:flex;-ms-flex-wrap:wrap;flex-wrap:wrap;gap:30px;padding-top:30px;padding-bottom:30px;border-bottom:1px solid rgba(99,99,99,.7)}.s2 .stories__element:first-child{padding-top:0}.s2 .stories__element:last-child{border:none}.s2 .stories__avatar{width:46px;height:46px;overflow:hidden;display:-webkit-box;display:-ms-flexbox;display:flex;-webkit-box-pack:center;-ms-flex-pack:center;justify-content:center;-webkit-box-align:center;-ms-flex-align:center;align-items:center;border-radius:100%}.s2 .stories__avatar-image{width:48px;height:48px}.s2 .stories__title{max-width:calc(100% - 80px);margin-bottom:10px;font-weight:700;font-size:18px;line-height:24px;color:#fff;font-family:SFProDisplay;text-shadow:1px 1px #333}.s2 .stories__date{display:block;font-weight:400;font-size:11px;color:#aaa;font-family:SFProText;text-shadow:1px 1px #333}

diff --git a/app/scss/sections/_section_2.scss b/app/scss/sections/_section_2.scss
@@ -7,6 +7,10 @@
 	.container {
 		padding-top: 600px;
 		padding-bottom: 100px;
+
+		@media screen and (max-width: 999px) {
+			padding-top: 340px;
+		}
 	}
 
 	&__button_top {
@@ -22,6 +26,7 @@
 		letter-spacing: 2px;
 		color: #fff;
 		text-transform: uppercase;
+		text-shadow: 1px 1px #333;
 	}
 
 	&__title {
@@ -34,6 +39,15 @@
 		font-size: 48px;
 		line-height: 64px;
 		color: #fff;
+		text-shadow: 2px 2px #333;
+
+		@media screen and (max-width: 1248px) {
+			max-width: 460px;
+		}
+
+		@media screen and (max-width: 600px) {
+			max-width: 435px;
+		}
 	}
 
 	&__text {
@@ -45,6 +59,15 @@
 		font-size: 14px;
 		line-height: 21px;
 		color: #fff;
+		text-shadow: 1px 1px #111;
+
+		@media screen and (max-width: 1248px) {
+			max-width: 550px;
+		}
+
+		@media screen and (max-width: 600px) {
+			max-width: 435px;
+		}
 	}
 
 	&__button_bot {
@@ -59,6 +82,7 @@
 		letter-spacing: 2px;
 		color: #fff;
 		text-transform: uppercase;
+		text-shadow: 1px 1px #333;
 	}
 
 	&__sidebar {
@@ -67,13 +91,48 @@
 		right: 0;
 		height: 100%;
 		max-width: 690px;
-		padding: 130px;
+		padding: 130px 170px 130px 130px;
 		background: rgba(60, 74, 81, .95);
 
-		@media screen and (max-width: 680px) {
+		@media screen and (max-width: 999px) {
+			/* top: auto;
+			bottom: 0;
+			left: 0;
+			height: 40%;
+			max-width: 100%; */
+
+			top: 80px;
 			position: relative;
+			max-width: 100%;
+			padding: 50px 170px 20px 130px;
+		}
+
+		@media screen and (max-width: 800px) {
+			padding: 50px 50px 20px 50px;
+		}
+
+		@media screen and (max-width: 600px) {
+			padding: 10px 50px 20px 50px;
+		}
+
+		@media screen and (max-width: 396px) {
+			top: 55px;
+		}
+
+		@media screen and (max-width: 346px) {
+			top: 90px;
+			padding: 10px 20px 20px 30px;
+		}
+
+		@media screen and (min-width: 1250px) and (max-width: 1400px) {
+			padding: 130px 100px 100px 100px;
 		}
 	
+		@media screen and (min-width: 1000px) and (max-width: 1249px) {
+			padding: 100px 70px 100px 80px;
+		}
+	
+
 		&-title {
 			
 			max-width: 370px;
@@ -84,6 +143,36 @@
 			font-size: 64px;
 			line-height: 80px;
 			color: #fff;
+			text-shadow: 2px 2px #333;
+
+			@media screen and (max-width: 999px) {
+				max-width: 100%;
+				margin-bottom: 80px;
+			}
+
+			@media screen and (max-width: 600px) {
+				font-size: 54px;
+			}
+
+			@media screen and (max-width: 520px) {
+				font-size: 40px;
+			}
+
+			@media screen and (max-width: 420px) {
+				font-size: 32px;
+			}
+
+			@media screen and (max-width: 375px) {
+				font-size: 29px;
+			}
+
+			@media screen and (max-width: 346px) {
+				margin-bottom: 70px;
+			}
+
+			@media screen and (min-width: 1000px) and (max-width: 1249px) {
+				max-width: 270px;
+			}
 		}
 	} // sidebar
 
@@ -95,6 +184,14 @@
 			max-width: 370px;
 			display: flex;
 			flex-direction: column;
+
+			@media screen and (max-width: 999px) {
+				max-width: 100%;
+			}
+
+			@media screen and (min-width: 1000px) and (max-width: 1249px) {
+				max-width: 270px;
+			}
 		}
 
 		&__element {
@@ -141,6 +238,7 @@
 			line-height: 24px;
 			color: #fff;
 			font-family: 'SFProDisplay';
+			text-shadow: 1px 1px #333;
 		}
 
 		&__date {
@@ -149,6 +247,7 @@
 			font-size: 11px;
 			color: #aaa;
 			font-family: 'SFProText';
+			text-shadow: 1px 1px #333;
 		}
 	} // stories
 }

diff --git a/app/scss/_header.scss b/app/scss/_header.scss
@@ -23,6 +23,7 @@
 		font-size: 80px;
 		line-height: 84px;
 		color: #fff;
+		text-shadow: 2px 2px #333;
 
 		@media screen and (max-width: 576px) {
 			font-size: 60px;
@@ -37,6 +38,7 @@
 		font-weight: 100;
 		font-size: 14px;
 		color: #fff;
+		text-shadow: 1px 1px #111;
 
 		@media screen and (max-width: 1050px) {
 			max-width: 480px;
@@ -63,6 +65,7 @@
 		font-size: 11px;
 		text-align: center;
 		color: #fff;
+		text-shadow: 1px 1px #111;
 	}
 
 	.button-buy {
@@ -76,6 +79,7 @@
 		letter-spacing: 2px;
 		color: #fff;
 		background-color: #E8594E;
+		text-shadow: 1px 1px #111;
 
 		@media screen and (max-width: 1200px) {
 			margin-bottom: 120px;
@@ -266,6 +270,7 @@
 			letter-spacing: 2px;
 			color: #fff;
 			text-transform: uppercase;
+			text-shadow: 1px 1px #333;
 		}
 	}	
 

diff --git a/app/scss/sections/_section_1.scss b/app/scss/sections/_section_1.scss
@@ -22,6 +22,7 @@
 		color: #1C2E3D;
 		max-width: 770px;
 		margin-bottom: 100px;
+		text-shadow: 1px 1px #aaa;
 
 		@media screen and (max-width: 1030px) {
 			font-size: 58px;
@@ -93,7 +94,7 @@
 			font-size: 24px;
 			line-height: 31px;
 			letter-spacing: 1px;
-			text-shadow: 1px 1px #2A707C;
+			text-shadow: 1px 1px #333;
 			color: #fff;
 
 			@media screen and (min-width: 992px) and (max-width: 1201px){

diff --git a/app/scss/_top_line.scss b/app/scss/_top_line.scss
@@ -93,6 +93,7 @@
 		text-transform: uppercase;
 
 		z-index: 5;
+		text-shadow: 1px 1px #111;
 	}
 
 }
